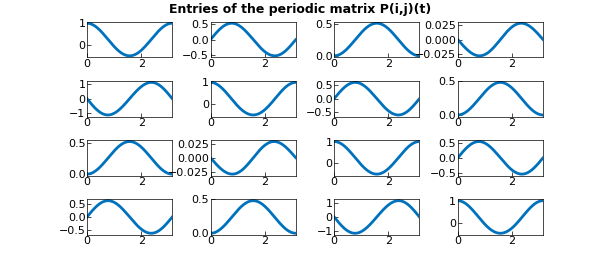
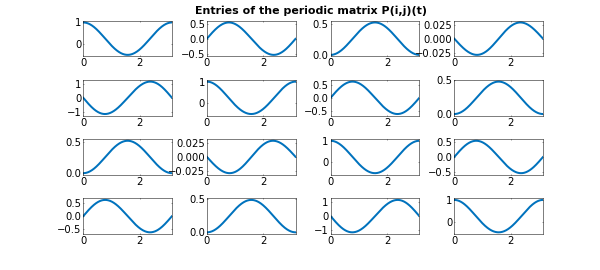
Match measured Floquet subplot geometry and source stroke sizes

diff --git a/examples/ode-linear/floquet.py b/examples/ode-linear/floquet.py
@@ -84,6 +84,30 @@ def _source_logm(matrix):
     return logm(matrix)
 
 
+def _style_periodic_figure(fig, axs):
+    """Apply measured source subplot geometry at the 600x270 reference size.
+
+    R2024b CPU/Painters capture of the literal Floquet.m subplot loop;
+    qualification: docs/floquet_periodic_layout_cpu_20261013.json.
+    Curve coordinates and data limits are left to the public plotting path.
+    """
+    left = (0.13877659574468085, 0.34489361702127663,
+            0.5510106382978723, 0.7571276595744681)
+    bottom = (0.7907855436081243, 0.571699522102748,
+              0.35261350059737157, 0.13352747909199522)
+    for i, row in enumerate(axs):
+        for j, ax in enumerate(row):
+            ax.set_position((left[j], bottom[i],
+                             0.1478723404255319, 0.1320489844684427))
+            ax.tick_params(labelsize=10, pad=2, direction="in",
+                           top=True, right=True, width=0.5, length=0.887234)
+            for spine in ax.spines.values():
+                spine.set_linewidth(0.5)
+    fig.suptitle("Entries of the periodic matrix P(i,j)(t)",
+                 fontsize=11, fontweight="bold", x=310.5003 / 600,
+                 y=1 - 14.25 / 270, va="baseline")
+
+
 def run(initial_conditions=None):
     os.makedirs(_IMG, exist_ok=True)
 
@@ -124,12 +148,8 @@ def run(initial_conditions=None):
     for i in range(n):
         for j in range(n):
             matlab_plot(periodic[i][j].real(), ax=axs[i, j], linewidth=2.0)
-            axs[i, j].tick_params(labelsize=8, pad=1)
-    fig.suptitle("Entries of the periodic matrix P(i,j)(t)",
-                 fontsize=9, fontweight="bold", y=.99)
-    fig.subplots_adjust(left=.145, right=.905, bottom=.13, top=.92,
-                        wspace=.45, hspace=.65)
-    _savefig(fig, os.path.join(_IMG, "Floquet_01.png"), size=(600, 270))
+    _style_periodic_figure(fig, axs)
+    _savefig(fig, os.path.join(_IMG, "Floquet_01.png"), size=(600, 270), dpi=72)
     plt.close(fig)
 
     # Preserve the original ten-period construction and source summation order.

diff --git a/STATUS.md b/STATUS.md
@@ -5,6 +5,10 @@ Full parity remains incomplete. Pushes work; qualification is CPU only.
 
 Recent verified changes:
 
+- Floquet periodic-matrix figure now uses measured native subplot positions,
+  source font/stroke sizes and 72dpi at 600x270 pixels. All 16 saved curve
+  coordinate arrays and data limits are unchanged. Tick selection and raster
+  differences remain open. See `docs/floquet_periodic_layout_cpu_20261013.json`.
 - Floquet exponent and multiplier output now uses the source four-decimal
   display. Both blocks match the actual native capture exactly when replayed
   from retained computed eigenvalues; all non-print executable AST is unchanged.
